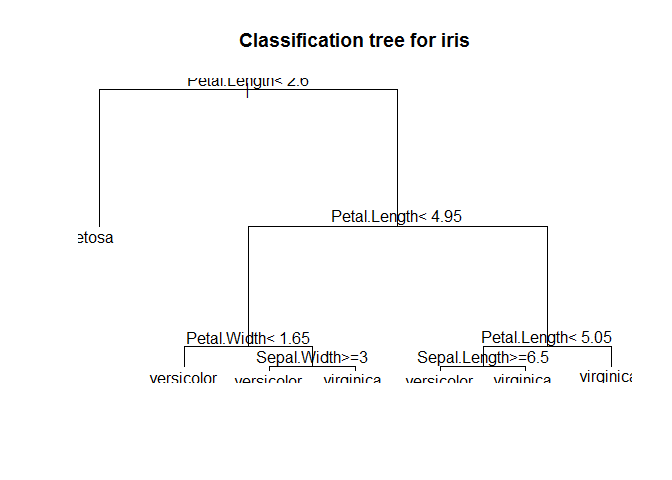
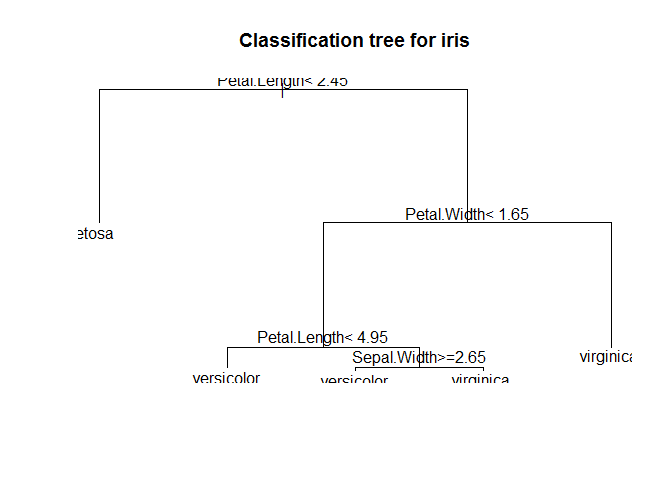
DecisionTree

diff --git a/2018_04_25_Decision_Tree.md b/2018_04_25_Decision_Tree.md
@@ -8,8 +8,6 @@ Divid Data
 library(caret)
 ```
 
-    Warning: package 'caret' was built under R version 3.4.4
-
     Loading required package: lattice
 
     Loading required package: ggplot2
@@ -42,10 +40,10 @@ tree
           * denotes terminal node
 
     1) root 105 70 setosa (0.33333333 0.33333333 0.33333333)  
-      2) Petal.Length< 2.6 35  0 setosa (1.00000000 0.00000000 0.00000000) *
-      3) Petal.Length>=2.6 70 35 versicolor (0.00000000 0.50000000 0.50000000)  
-        6) Petal.Length< 4.95 37  3 versicolor (0.00000000 0.91891892 0.08108108) *
-        7) Petal.Length>=4.95 33  1 virginica (0.00000000 0.03030303 0.96969697) *
+      2) Petal.Length< 2.45 35  0 setosa (1.00000000 0.00000000 0.00000000) *
+      3) Petal.Length>=2.45 70 35 versicolor (0.00000000 0.50000000 0.50000000)  
+        6) Petal.Width< 1.65 37  2 versicolor (0.00000000 0.94594595 0.05405405) *
+        7) Petal.Width>=1.65 33  0 virginica (0.00000000 0.00000000 1.00000000) *
 
 Explore Tree
 ------------
@@ -71,13 +69,13 @@ tree_pred <- predict(tree, test, type="class")
 head(tree_pred, 20)
 ```
 
-             3          8         14         17         23         24 
+             2         11         13         14         20         21 
         setosa     setosa     setosa     setosa     setosa     setosa 
-            25         26         30         36         37         40 
+            22         23         27         29         37         39 
         setosa     setosa     setosa     setosa     setosa     setosa 
-            41         43         44         51         53         56 
+            42         43         44         55         57         59 
         setosa     setosa     setosa versicolor versicolor versicolor 
-            61         62 
+            61         63 
     versicolor versicolor 
     Levels: setosa versicolor virginica
 
@@ -87,26 +85,26 @@ head(tree_pred_prob, 20)
 ```
 
        setosa versicolor  virginica
-    3       1  0.0000000 0.00000000
-    8       1  0.0000000 0.00000000
+    2       1  0.0000000 0.00000000
+    11      1  0.0000000 0.00000000
+    13      1  0.0000000 0.00000000
     14      1  0.0000000 0.00000000
-    17      1  0.0000000 0.00000000
+    20      1  0.0000000 0.00000000
+    21      1  0.0000000 0.00000000
+    22      1  0.0000000 0.00000000
     23      1  0.0000000 0.00000000
-    24      1  0.0000000 0.00000000
-    25      1  0.0000000 0.00000000
-    26      1  0.0000000 0.00000000
-    30      1  0.0000000 0.00000000
-    36      1  0.0000000 0.00000000
+    27      1  0.0000000 0.00000000
+    29      1  0.0000000 0.00000000
     37      1  0.0000000 0.00000000
-    40      1  0.0000000 0.00000000
-    41      1  0.0000000 0.00000000
+    39      1  0.0000000 0.00000000
+    42      1  0.0000000 0.00000000
     43      1  0.0000000 0.00000000
     44      1  0.0000000 0.00000000
-    51      0  0.9189189 0.08108108
-    53      0  0.9189189 0.08108108
-    56      0  0.9189189 0.08108108
-    61      0  0.9189189 0.08108108
-    62      0  0.9189189 0.08108108
+    55      0  0.9459459 0.05405405
+    57      0  0.9459459 0.05405405
+    59      0  0.9459459 0.05405405
+    61      0  0.9459459 0.05405405
+    63      0  0.9459459 0.05405405
 
 Evaluate a model
 ----------------
@@ -120,8 +118,8 @@ confusionMatrix(tree_pred, test$Species)
                 Reference
     Prediction   setosa versicolor virginica
       setosa         15          0         0
-      versicolor      0         14         3
-      virginica       0          1        12
+      versicolor      0         13         2
+      virginica       0          2        13
 
     Overall Statistics
                                               
@@ -136,14 +134,14 @@ confusionMatrix(tree_pred, test$Species)
     Statistics by Class:
 
                          Class: setosa Class: versicolor Class: virginica
-    Sensitivity                 1.0000            0.9333           0.8000
-    Specificity                 1.0000            0.9000           0.9667
-    Pos Pred Value              1.0000            0.8235           0.9231
-    Neg Pred Value              1.0000            0.9643           0.9062
+    Sensitivity                 1.0000            0.8667           0.8667
+    Specificity                 1.0000            0.9333           0.9333
+    Pos Pred Value              1.0000            0.8667           0.8667
+    Neg Pred Value              1.0000            0.9333           0.9333
     Prevalence                  0.3333            0.3333           0.3333
-    Detection Rate              0.3333            0.3111           0.2667
-    Detection Prevalence        0.3333            0.3778           0.2889
-    Balanced Accuracy           1.0000            0.9167           0.8833
+    Detection Rate              0.3333            0.2889           0.2889
+    Detection Prevalence        0.3333            0.3333           0.3333
+    Balanced Accuracy           1.0000            0.9000           0.9000
 
 ``` r
 printcp(tree)
@@ -154,16 +152,16 @@ printcp(tree)
     rpart(formula = Species ~ ., data = train)
 
     Variables actually used in tree construction:
-    [1] Petal.Length
+    [1] Petal.Length Petal.Width 
 
     Root node error: 70/105 = 0.66667
 
     n= 105 
 
-           CP nsplit rel error  xerror     xstd
-    1 0.50000      0  1.000000 1.21429 0.057482
-    2 0.44286      1  0.500000 0.74286 0.073189
-    3 0.01000      2  0.057143 0.11429 0.038836
+           CP nsplit rel error   xerror     xstd
+    1 0.50000      0  1.000000 1.200000 0.058554
+    2 0.47143      1  0.500000 0.828571 0.072790
+    3 0.01000      2  0.028571 0.042857 0.024388
 
 Control Decision Tree
 ---------------------
@@ -181,18 +179,14 @@ tree
           * denotes terminal node
 
      1) root 105 70 setosa (0.33333333 0.33333333 0.33333333)  
-       2) Petal.Length< 2.6 35  0 setosa (1.00000000 0.00000000 0.00000000) *
-       3) Petal.Length>=2.6 70 35 versicolor (0.00000000 0.50000000 0.50000000)  
-         6) Petal.Length< 4.95 37  3 versicolor (0.00000000 0.91891892 0.08108108)  
-          12) Petal.Width< 1.65 33  0 versicolor (0.00000000 1.00000000 0.00000000) *
-          13) Petal.Width>=1.65 4  1 virginica (0.00000000 0.25000000 0.75000000)  
-            26) Sepal.Width>=3 1  0 versicolor (0.00000000 1.00000000 0.00000000) *
-            27) Sepal.Width< 3 3  0 virginica (0.00000000 0.00000000 1.00000000) *
-         7) Petal.Length>=4.95 33  1 virginica (0.00000000 0.03030303 0.96969697)  
-          14) Petal.Length< 5.05 3  1 virginica (0.00000000 0.33333333 0.66666667)  
-            28) Sepal.Length>=6.5 1  0 versicolor (0.00000000 1.00000000 0.00000000) *
-            29) Sepal.Length< 6.5 2  0 virginica (0.00000000 0.00000000 1.00000000) *
-          15) Petal.Length>=5.05 30  0 virginica (0.00000000 0.00000000 1.00000000) *
+       2) Petal.Length< 2.45 35  0 setosa (1.00000000 0.00000000 0.00000000) *
+       3) Petal.Length>=2.45 70 35 versicolor (0.00000000 0.50000000 0.50000000)  
+         6) Petal.Width< 1.65 37  2 versicolor (0.00000000 0.94594595 0.05405405)  
+          12) Petal.Length< 4.95 34  0 versicolor (0.00000000 1.00000000 0.00000000) *
+          13) Petal.Length>=4.95 3  1 virginica (0.00000000 0.33333333 0.66666667)  
+            26) Sepal.Width>=2.65 1  0 versicolor (0.00000000 1.00000000 0.00000000) *
+            27) Sepal.Width< 2.65 2  0 virginica (0.00000000 0.00000000 1.00000000) *
+         7) Petal.Width>=1.65 33  0 virginica (0.00000000 0.00000000 1.00000000) *
 
 Explore Tree
 ------------
@@ -200,8 +194,6 @@ Explore Tree
 ``` r
 plotcp(tree)
 ```
-
-    Warning in sqrt(cp0 * c(Inf, cp0[-length(cp0)])): NaN이 생성되었습니다
 
 <img src="2018_04_25_Decision_Tree_files/figure-markdown_github/unnamed-chunk-9-1.png" width="900" />
 
@@ -224,8 +216,8 @@ confusionMatrix(tree_pred, test$Species)
                 Reference
     Prediction   setosa versicolor virginica
       setosa         15          0         0
-      versicolor      0         14         3
-      virginica       0          1        12
+      versicolor      0         13         2
+      virginica       0          2        13
 
     Overall Statistics
                                               
@@ -240,14 +232,14 @@ confusionMatrix(tree_pred, test$Species)
     Statistics by Class:
 
                          Class: setosa Class: versicolor Class: virginica
-    Sensitivity                 1.0000            0.9333           0.8000
-    Specificity                 1.0000            0.9000           0.9667
-    Pos Pred Value              1.0000            0.8235           0.9231
-    Neg Pred Value              1.0000            0.9643           0.9062
+    Sensitivity                 1.0000            0.8667           0.8667
+    Specificity                 1.0000            0.9333           0.9333
+    Pos Pred Value              1.0000            0.8667           0.8667
+    Neg Pred Value              1.0000            0.9333           0.9333
     Prevalence                  0.3333            0.3333           0.3333
-    Detection Rate              0.3333            0.3111           0.2667
-    Detection Prevalence        0.3333            0.3778           0.2889
-    Balanced Accuracy           1.0000            0.9167           0.8833
+    Detection Rate              0.3333            0.2889           0.2889
+    Detection Prevalence        0.3333            0.3333           0.3333
+    Balanced Accuracy           1.0000            0.9000           0.9000
 
 ``` r
 printcp(tree)
@@ -258,19 +250,17 @@ printcp(tree)
     rpart(formula = Species ~ ., data = train, control = tree_control)
 
     Variables actually used in tree construction:
-    [1] Petal.Length Petal.Width  Sepal.Length Sepal.Width 
+    [1] Petal.Length Petal.Width  Sepal.Width 
 
     Root node error: 70/105 = 0.66667
 
     n= 105 
 
-              CP nsplit rel error  xerror     xstd
-    1  0.5000000      0  1.000000 1.14286 0.062348
-    2  0.4428571      1  0.500000 0.61429 0.071984
-    3  0.0285714      2  0.057143 0.11429 0.038836
-    4  0.0142857      3  0.028571 0.10000 0.036515
-    5  0.0071429      4  0.014286 0.10000 0.036515
-    6 -0.0100000      6  0.000000 0.10000 0.036515
+             CP nsplit rel error   xerror     xstd
+    1  0.500000      0  1.000000 1.142857 0.062348
+    2  0.471429      1  0.500000 0.771429 0.073163
+    3  0.014286      2  0.028571 0.042857 0.024388
+    4 -0.010000      4  0.000000 0.042857 0.024388
 
 Perform pruning
 ---------------
@@ -279,26 +269,22 @@ Perform pruning
 tree$cptable
 ```
 
-                CP nsplit  rel error    xerror       xstd
-    1  0.500000000      0 1.00000000 1.1428571 0.06234797
-    2  0.442857143      1 0.50000000 0.6142857 0.07198423
-    3  0.028571429      2 0.05714286 0.1142857 0.03883633
-    4  0.014285714      3 0.02857143 0.1000000 0.03651484
-    5  0.007142857      4 0.01428571 0.1000000 0.03651484
-    6 -0.010000000      6 0.00000000 0.1000000 0.03651484
+               CP nsplit  rel error     xerror       xstd
+    1  0.50000000      0 1.00000000 1.14285714 0.06234797
+    2  0.47142857      1 0.50000000 0.77142857 0.07316262
+    3  0.01428571      2 0.02857143 0.04285714 0.02438754
+    4 -0.01000000      4 0.00000000 0.04285714 0.02438754
 
 ``` r
 cp_xerror <- tree$cptable[,c('CP','xerror')]
 cp_xerror
 ```
 
-                CP    xerror
-    1  0.500000000 1.1428571
-    2  0.442857143 0.6142857
-    3  0.028571429 0.1142857
-    4  0.014285714 0.1000000
-    5  0.007142857 0.1000000
-    6 -0.010000000 0.1000000
+               CP     xerror
+    1  0.50000000 1.14285714
+    2  0.47142857 0.77142857
+    3  0.01428571 0.04285714
+    4 -0.01000000 0.04285714
 
 ``` r
 loc <- which.min(cp_xerror[,'xerror'])
